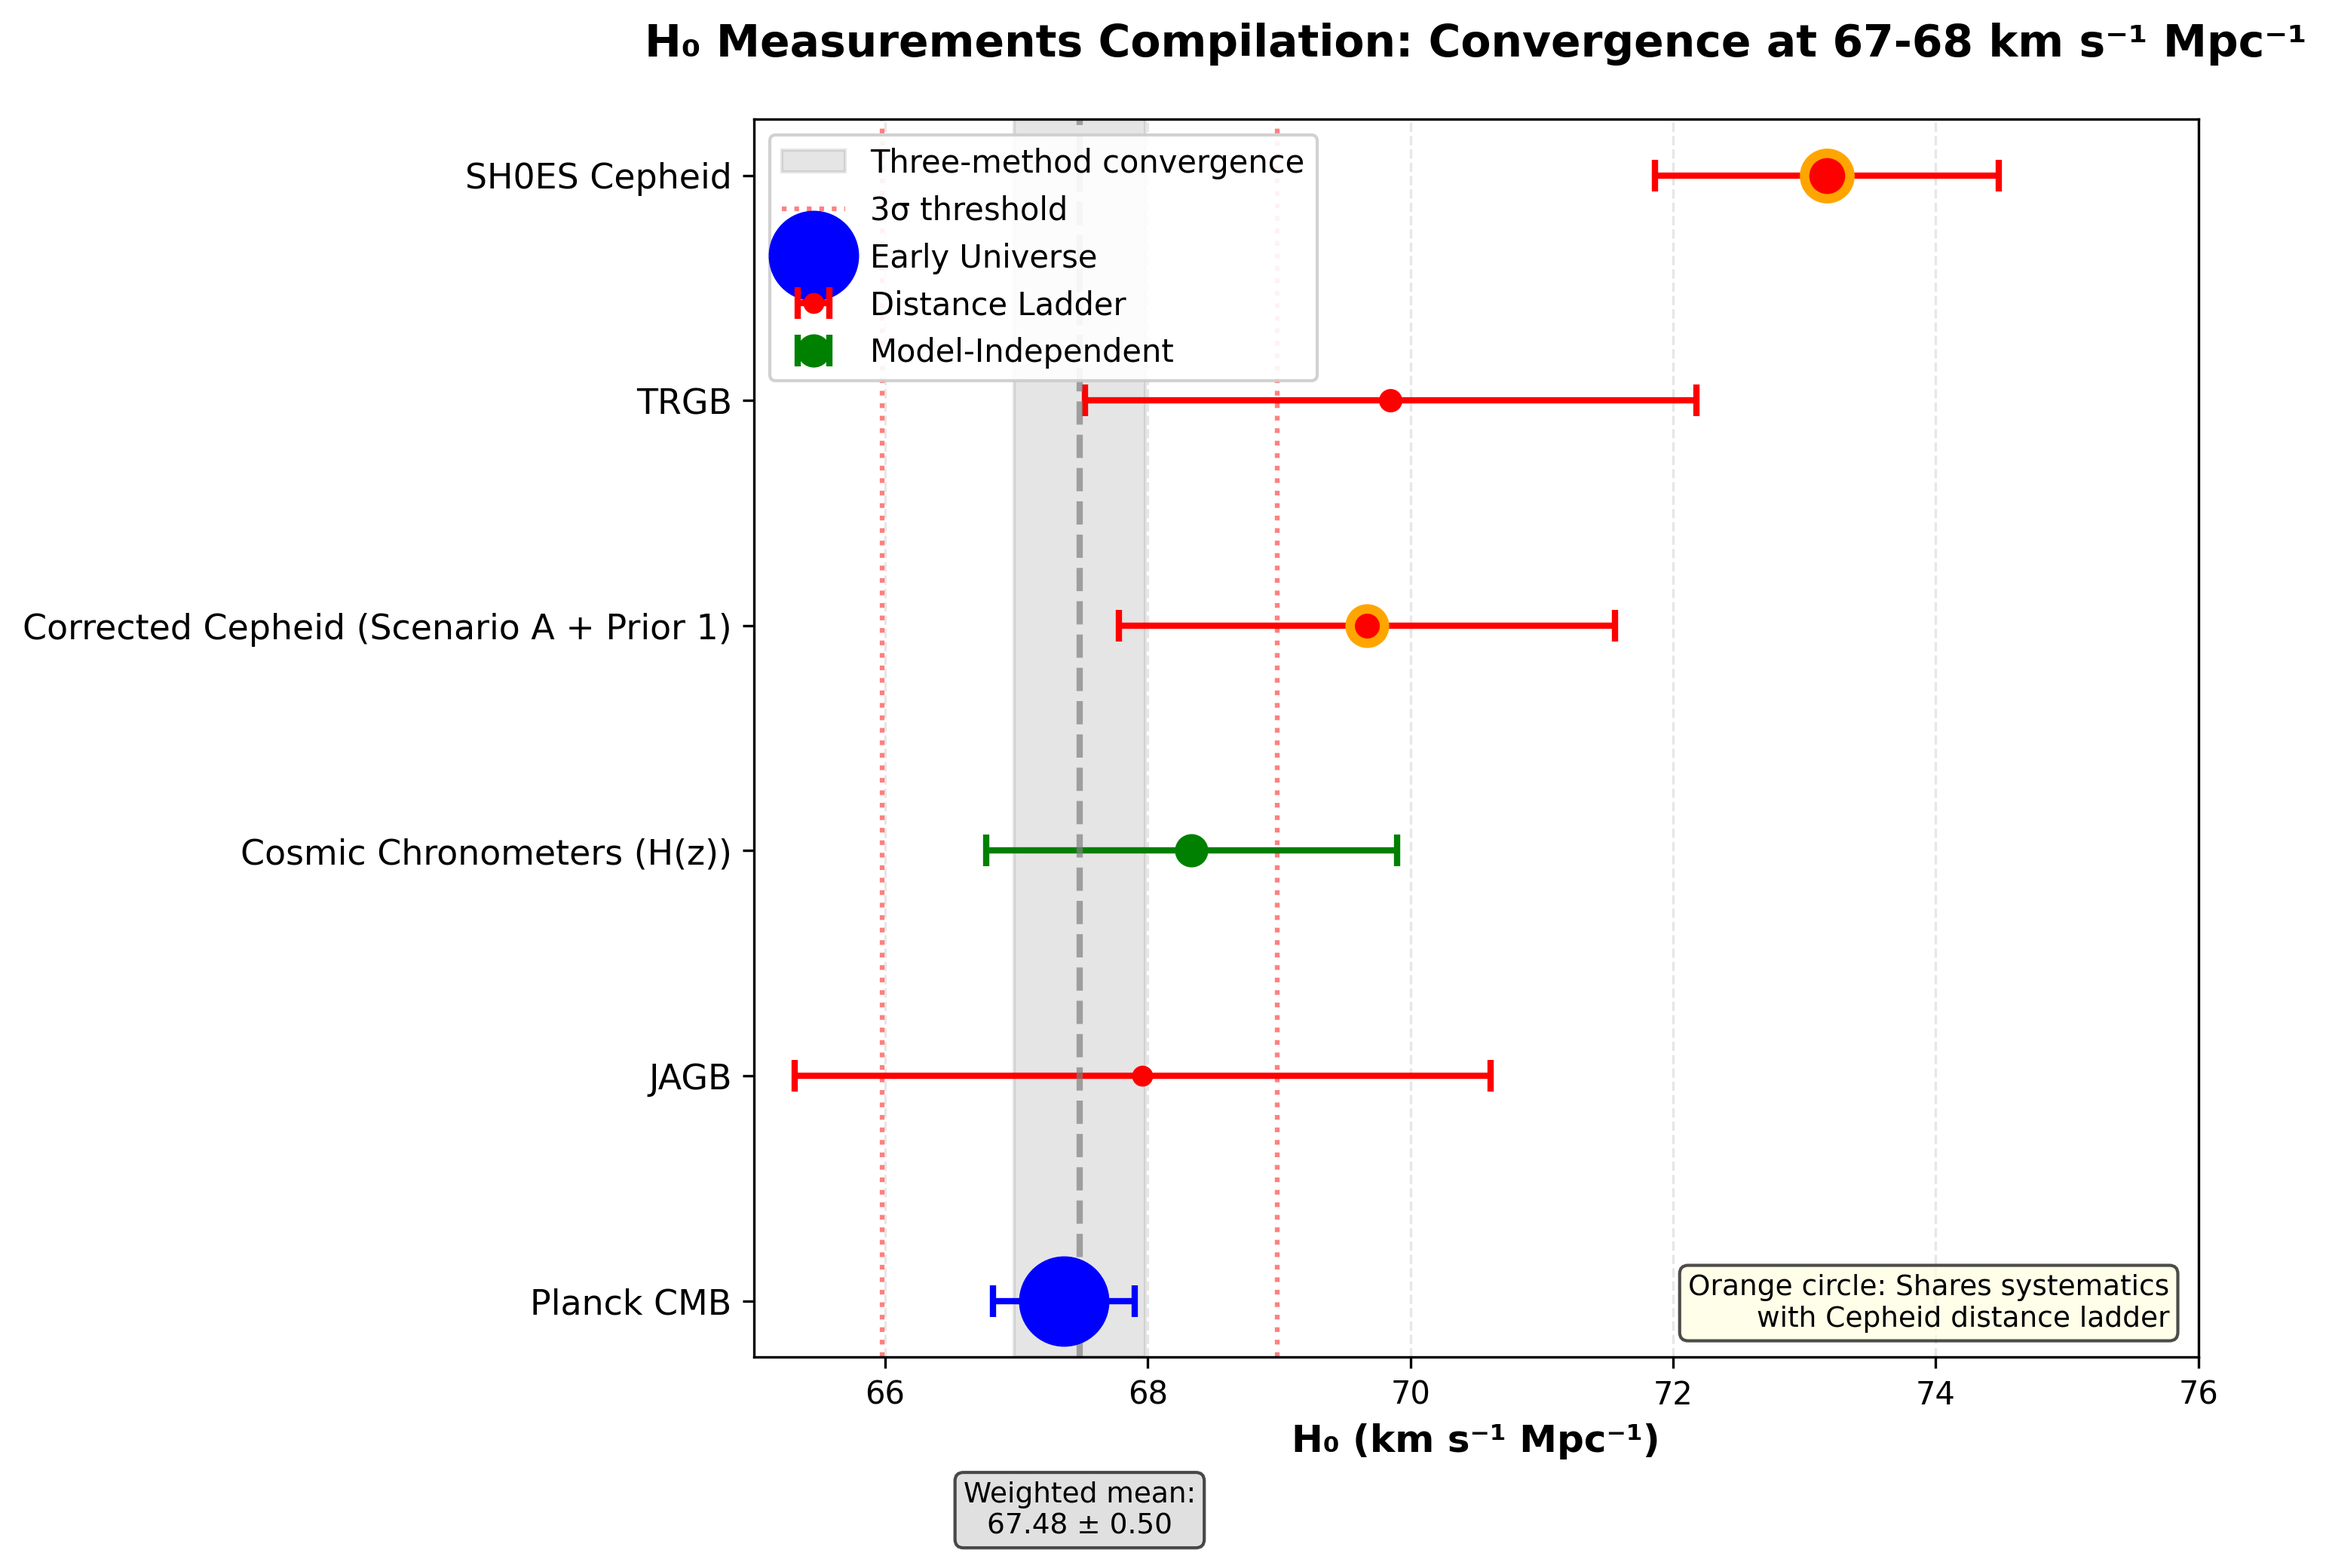
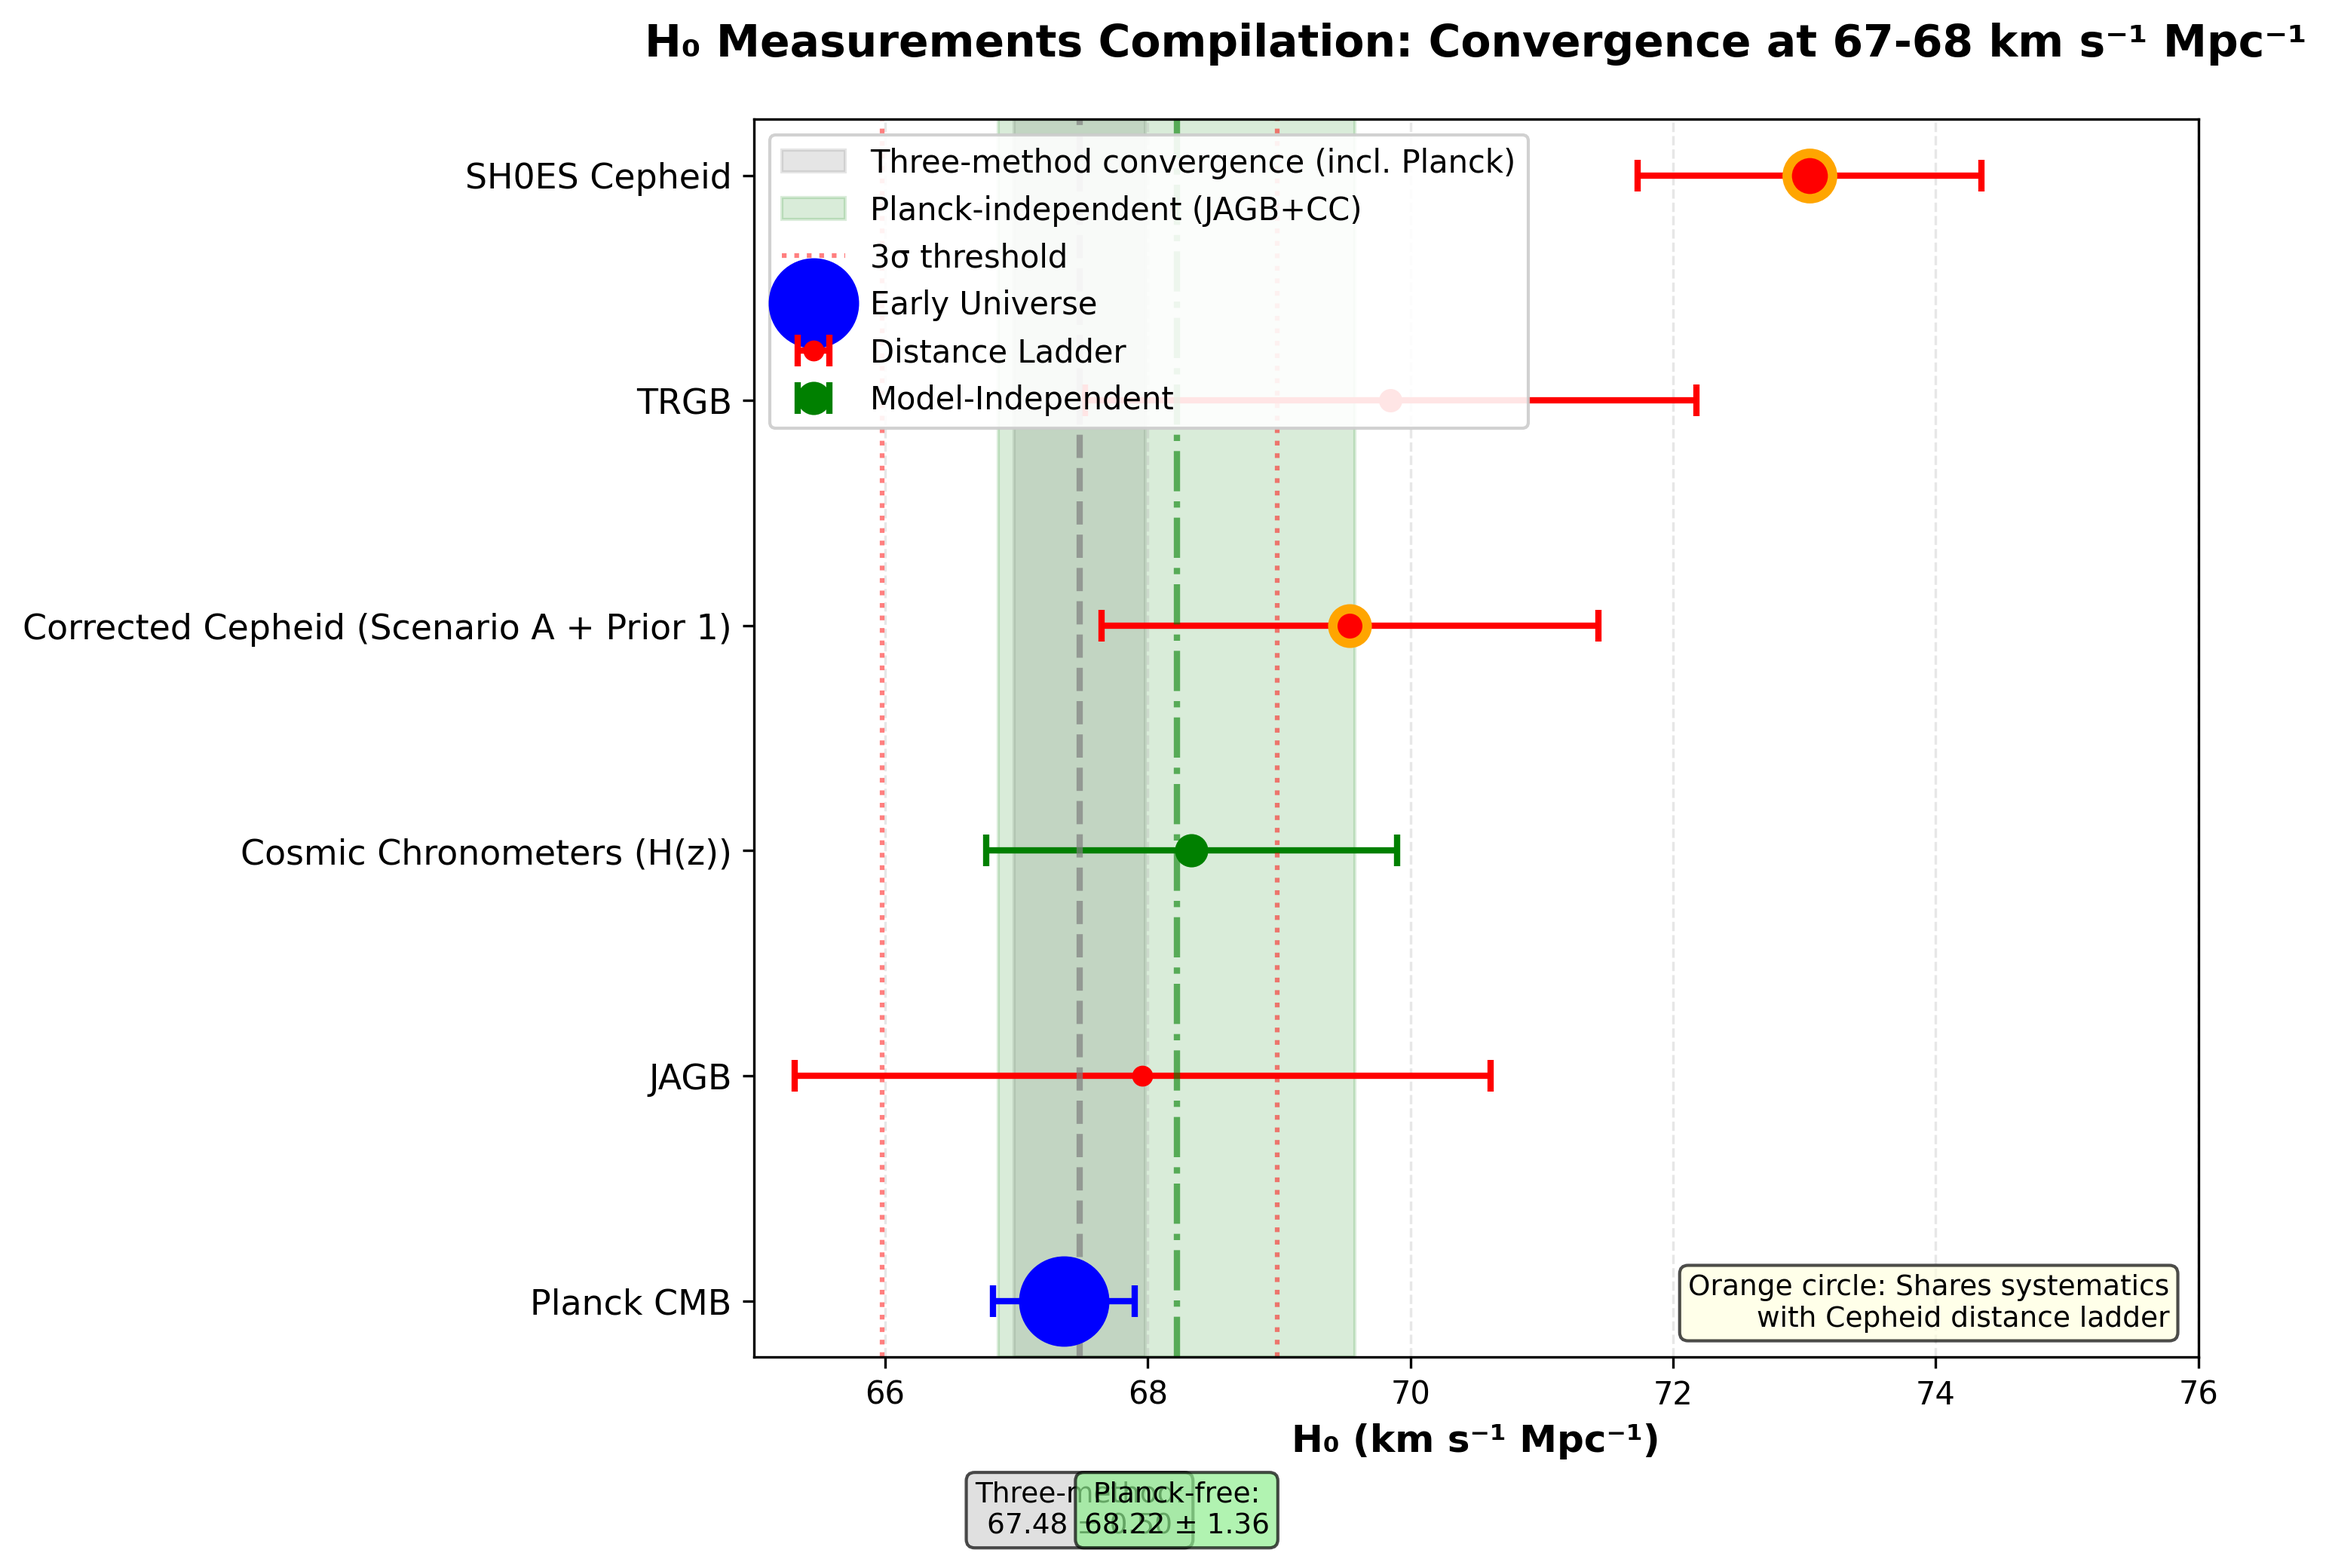
Add Planck-independent JAGB+CC convergence to Figure 4
Updated Figure 4 (H₀ compilation forest plot) to visually distinguish
the Planck-independent JAGB+CC convergence point (68.22 ± 1.36 km/s/Mpc)
from the three-method convergence including Planck (67.48 ± 0.50).

Changes:
- Added JAGB+CC row to h0_measurements_compilation.csv
- Updated Cepheid values: Corrected (69.67→69.54), SH0ES (73.17→73.04)
- Added green convergence band for Planck-independent mean
- Updated legend labels and annotations to clarify both convergence points
- Added "Planck-Independent" category to color scheme (teal)

This addresses expert feedback requesting clearer visual distinction
between late-universe and three-method convergence scenarios.

🤖 Generated with [Claude Code](https://claude.com/claude-code)

diff --git a/analysis/create_figure4_h0_compilation.py b/analysis/create_figure4_h0_compilation.py
@@ -19,9 +19,11 @@ def create_h0_compilation_figure():
     # Sort by H₀ value (ascending)
     data = data.sort_values('H0_km_s_Mpc', ascending=True)
 
-    # Exclude weighted mean from main plot (will show as band)
+    # Exclude weighted mean and JAGB+CC from main plot (will show as bands)
     weighted_mean_data = data[data['Method'] == 'Weighted Mean'].iloc[0]
-    plot_data = data[data['Method'] != 'Weighted Mean'].copy()
+    jagb_cc_data = data[data['Method'] == 'JAGB + Cosmic Chron.'].iloc[0]
+    plot_data = data[(data['Method'] != 'Weighted Mean') &
+                     (data['Method'] != 'JAGB + Cosmic Chron.')].copy()
 
     # Create figure
     fig, ax = plt.subplots(figsize=(10, 7))
@@ -34,6 +36,7 @@ def create_h0_compilation_figure():
         'Early Universe': 'blue',
         'Distance Ladder': 'red',
         'Model-Independent': 'green',
+        'Planck-Independent': 'teal',
         'Convergence': 'purple'
     }
 
@@ -73,9 +76,20 @@ def create_h0_compilation_figure():
     ax.axvspan(convergence_h0 - convergence_sigma,
               convergence_h0 + convergence_sigma,
               alpha=0.2, color='gray', zorder=1,
-              label='Three-method convergence')
+              label='Three-method convergence (incl. Planck)')
     ax.axvline(convergence_h0, color='gray', linestyle='--',
               linewidth=2, alpha=0.7, zorder=2)
+
+    # Add JAGB+CC Planck-independent convergence band
+    jagb_cc_h0 = jagb_cc_data['H0_km_s_Mpc']
+    jagb_cc_sigma = jagb_cc_data['Sigma_km_s_Mpc']
+
+    ax.axvspan(jagb_cc_h0 - jagb_cc_sigma,
+              jagb_cc_h0 + jagb_cc_sigma,
+              alpha=0.15, color='green', zorder=1,
+              label='Planck-independent (JAGB+CC)')
+    ax.axvline(jagb_cc_h0, color='green', linestyle='-.',
+              linewidth=2, alpha=0.6, zorder=2)
 
     # Add 3σ threshold lines
     threshold_lower = convergence_h0 - 3 * convergence_sigma
@@ -95,11 +109,16 @@ def create_h0_compilation_figure():
     ax.set_xlim(65, 76)
     ax.grid(True, alpha=0.3, axis='x', linestyle='--')
 
-    # Add text annotation for weighted mean (bottom of plot to avoid legend overlap)
+    # Add text annotation for convergence points (bottom of plot to avoid legend overlap)
     ax.text(convergence_h0, -0.8,
-           f'Weighted mean:\n{convergence_h0:.2f} ± {convergence_sigma:.2f}',
+           f'Three-method:\n{convergence_h0:.2f} ± {convergence_sigma:.2f}',
            ha='center', va='top', fontsize=9,
            bbox=dict(boxstyle='round', facecolor='lightgray', alpha=0.7))
+
+    ax.text(jagb_cc_h0, -0.8,
+           f'Planck-free:\n{jagb_cc_h0:.2f} ± {jagb_cc_sigma:.2f}',
+           ha='center', va='top', fontsize=9,
+           bbox=dict(boxstyle='round', facecolor='lightgreen', alpha=0.7))
 
     # Add note about Cepheid
     ax.text(0.98, 0.02,
@@ -122,7 +141,8 @@ def create_h0_compilation_figure():
     print("✅ Figure 4 generated successfully:")
     print("   - figures/figure4_h0_compilation.png (300 DPI)")
     print("   - figures/figure4_h0_compilation.pdf")
-    print(f"   Convergence: H₀ = {convergence_h0:.2f} ± {convergence_sigma:.2f} km s⁻¹ Mpc⁻¹")
+    print(f"   Three-method convergence: H₀ = {convergence_h0:.2f} ± {convergence_sigma:.2f} km s⁻¹ Mpc⁻¹")
+    print(f"   Planck-independent (JAGB+CC): H₀ = {jagb_cc_h0:.2f} ± {jagb_cc_sigma:.2f} km s⁻¹ Mpc⁻¹")
 
     plt.close()
 
